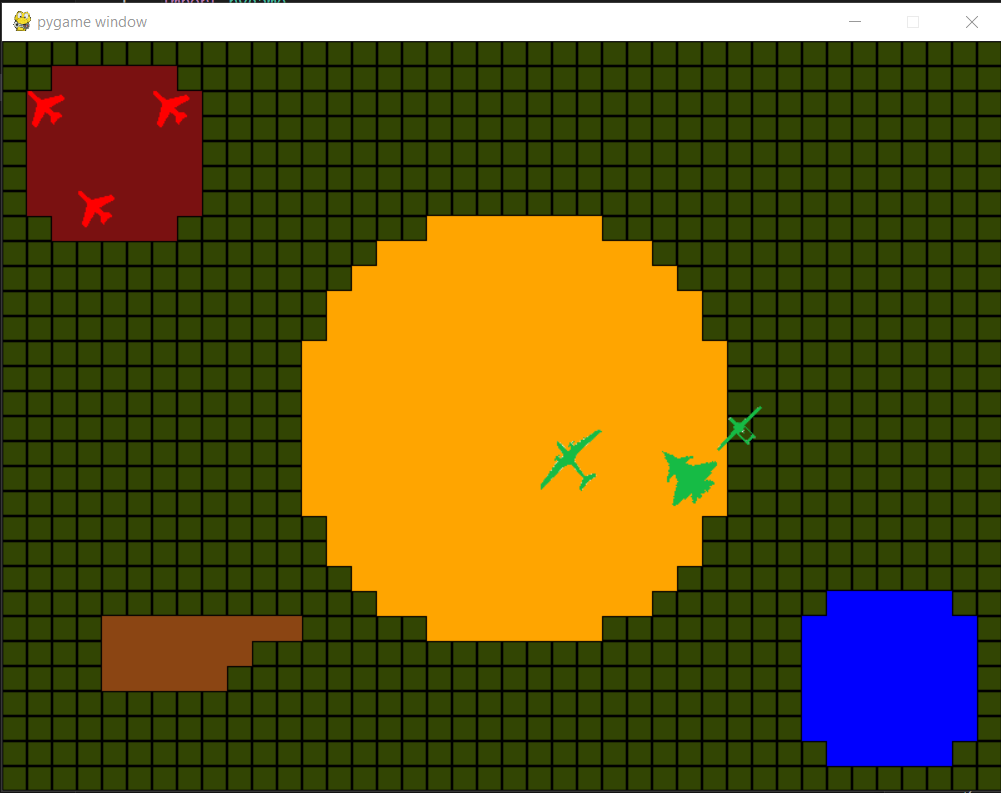
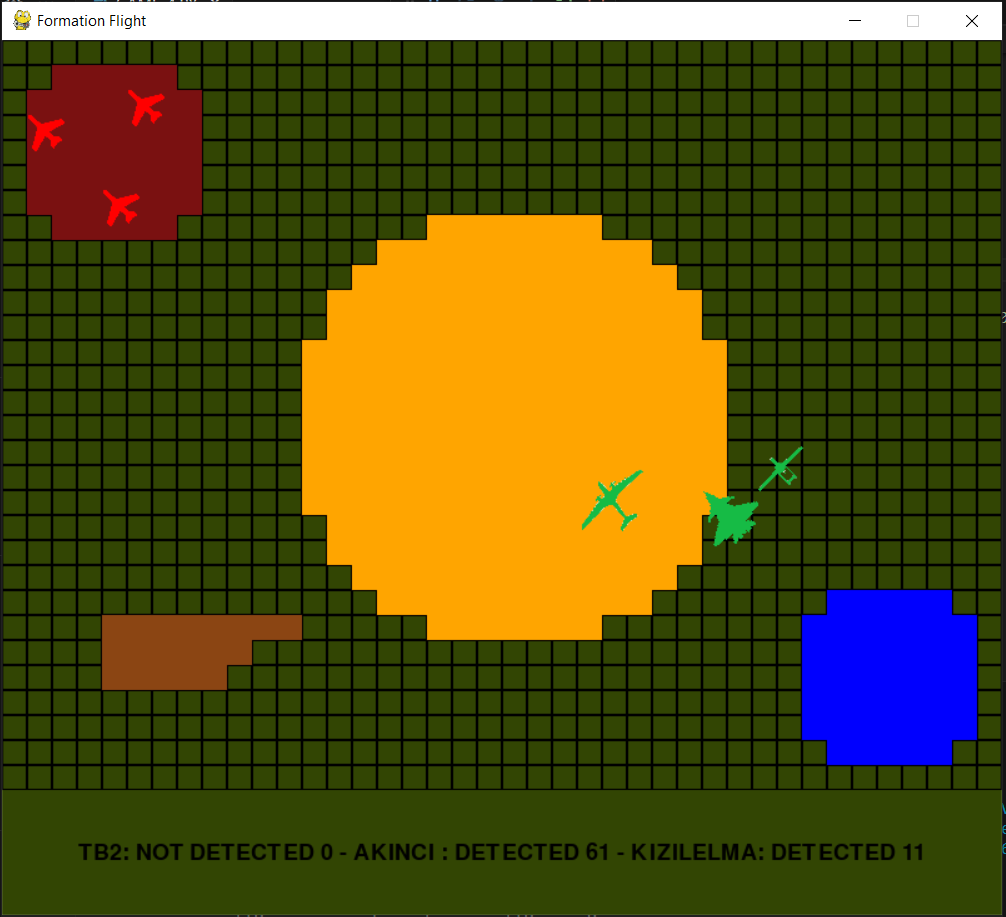
radar tespit suresi eklendi.

diff --git a/GAME_4.PY b/GAME_4.PY
@@ -102,14 +102,15 @@ def is_within_radar(cell_x, cell_y, radar_center, radar_radius):
     # Check if the distance is within the radar radius
     return distance <= radar_radius
 
-def annotate(tb2_radar_state, akinci_radar_state, kizilelma_radar_state):
+def annotate(tb2_radar_state, akinci_radar_state, kizilelma_radar_state, 
+             tb2_radar_point, akinci_radar_point, kizilelma_radar_point):
 
     tb2_found       = "DETECTED" if tb2_radar_state       else "NOT DETECTED"
     akinci_found    = "DETECTED" if akinci_radar_state    else "NOT DETECTED"
     kizilelma_found = "DETECTED" if kizilelma_radar_state else "NOT DETECTED"
 
     font     = pygame.font.Font('freesansbold.ttf', 18)
-    text     = font.render('TB2: ' + tb2_found + " - " + "AKINCI : " + akinci_found + " - " + "KIZILELMA: " + kizilelma_found, True, BLACK, GREENISH)
+    text     = font.render('TB2: ' + tb2_found + " " + str(tb2_radar_point) + " - " + "AKINCI : " + akinci_found + " " + str(akinci_radar_point) +  " - " + "KIZILELMA: " + kizilelma_found + " " + str(kizilelma_radar_point), True, BLACK, GREENISH)
     textRect = text.get_rect()
     textRect.center = (400, 650)
     screen.blit(text, textRect)
@@ -174,6 +175,17 @@ def draw_ally_aircrafts(selection, state):
 
         index += 1
 
+def calc_radar_time(radar_state_prv, radar_state, count):
+    if (radar_state):
+        new_count = count + 1
+    else:
+        new_count = count
+
+    if (radar_state_prv and (not radar_state)):
+        new_count = 0
+
+    return new_count
+
 def main():    
 
     ALLY_POS_PRV  = [[0, 0, 0], [0, 0, 0], [0, 0, 0]]
@@ -183,6 +195,15 @@ def main():
     AKINCI_POS    = [AKINCI_INIT_POS[0]    * CELL_SIZE, AKINCI_INIT_POS[1]    * CELL_SIZE, 7]
     TB2_POS       = [TB2_INIT_POS[0]       * CELL_SIZE, TB2_INIT_POS[1]       * CELL_SIZE, 7]
     ALLY_POS      = [KIZILELMA_POS, TB2_POS, AKINCI_POS]
+
+    tb2_in_radar_prv       = False
+    akinci_in_radar_prv    = False
+    kizilelma_in_radar_prv = False
+
+    tb2_radar_time       = 0
+    akinci_radar_time    = 0
+    kizilelma_radar_time = 0
+
     clock = pygame.time.Clock()
 
     while True:
@@ -259,17 +280,29 @@ def main():
         for i in AC_TYPES:
             draw_ally_aircrafts(i, ALLY_POS)
 
+        tb2_radar_time_new       = calc_radar_time(tb2_in_radar_prv      , tb2_in_radar      , tb2_radar_time      ) 
+        akinci_radar_time_new    = calc_radar_time(akinci_in_radar_prv   , akinci_in_radar   , akinci_radar_time   ) 
+        kizilelma_radar_time_new = calc_radar_time(kizilelma_in_radar_prv, kizilelma_in_radar, kizilelma_radar_time) 
+
+        tb2_radar_time       = tb2_radar_time_new
+        akinci_radar_time    = akinci_radar_time_new
+        kizilelma_radar_time = kizilelma_radar_time_new
+
 
         #KIZILELMA_POS[1] -= 1
-        annotate(tb2_in_radar, akinci_in_radar, kizilelma_in_radar)
+        annotate(tb2_in_radar, akinci_in_radar, kizilelma_in_radar, 
+                 tb2_radar_time_new, akinci_radar_time_new, kizilelma_radar_time_new)
         pygame.display.flip()
-        clock.tick(60)
+        clock.tick(30)
 
         ALLY_POS_PRV = [[ALLY_POS[0][0], ALLY_POS[0][1], ALLY_POS[0][2]], [ALLY_POS[1][0], ALLY_POS[1][1], ALLY_POS[1][2]],
                         [ALLY_POS[2][0], ALLY_POS[2][1], ALLY_POS[2][2]]]
         
-        
-    
+        tb2_in_radar_prv       = tb2_radar_time_new
+        akinci_in_radar_prv    = akinci_radar_time_new
+        kizilelma_in_radar_prv = kizilelma_radar_time_new
+
+               
 
 if __name__ == '__main__':
     main()
